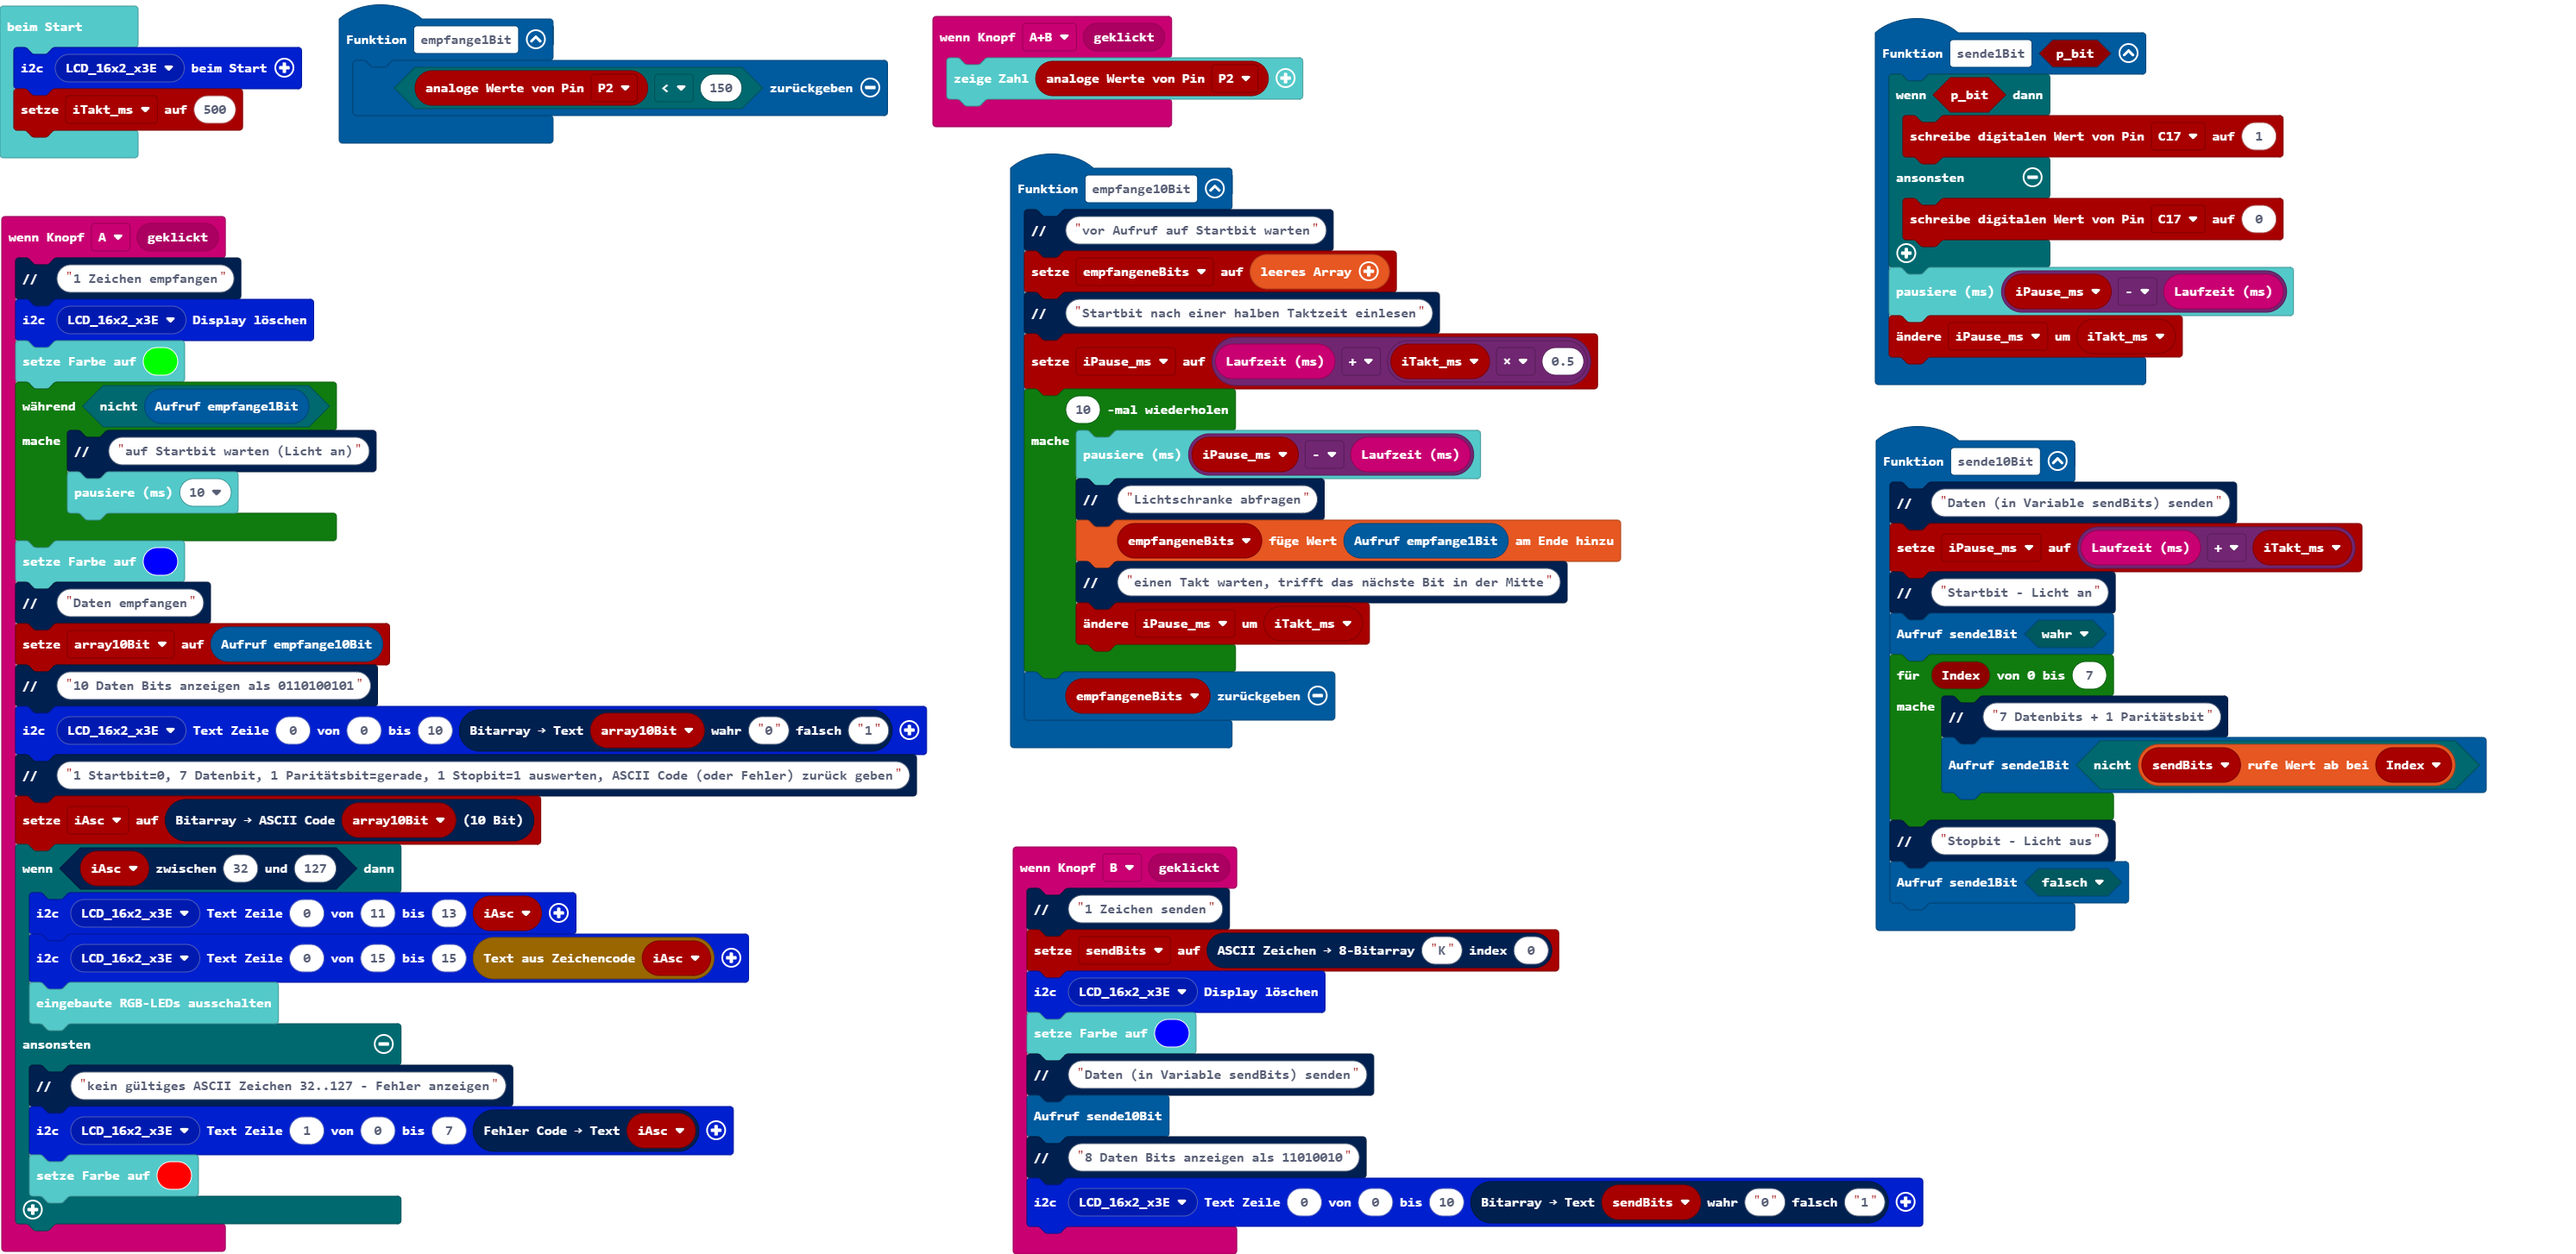
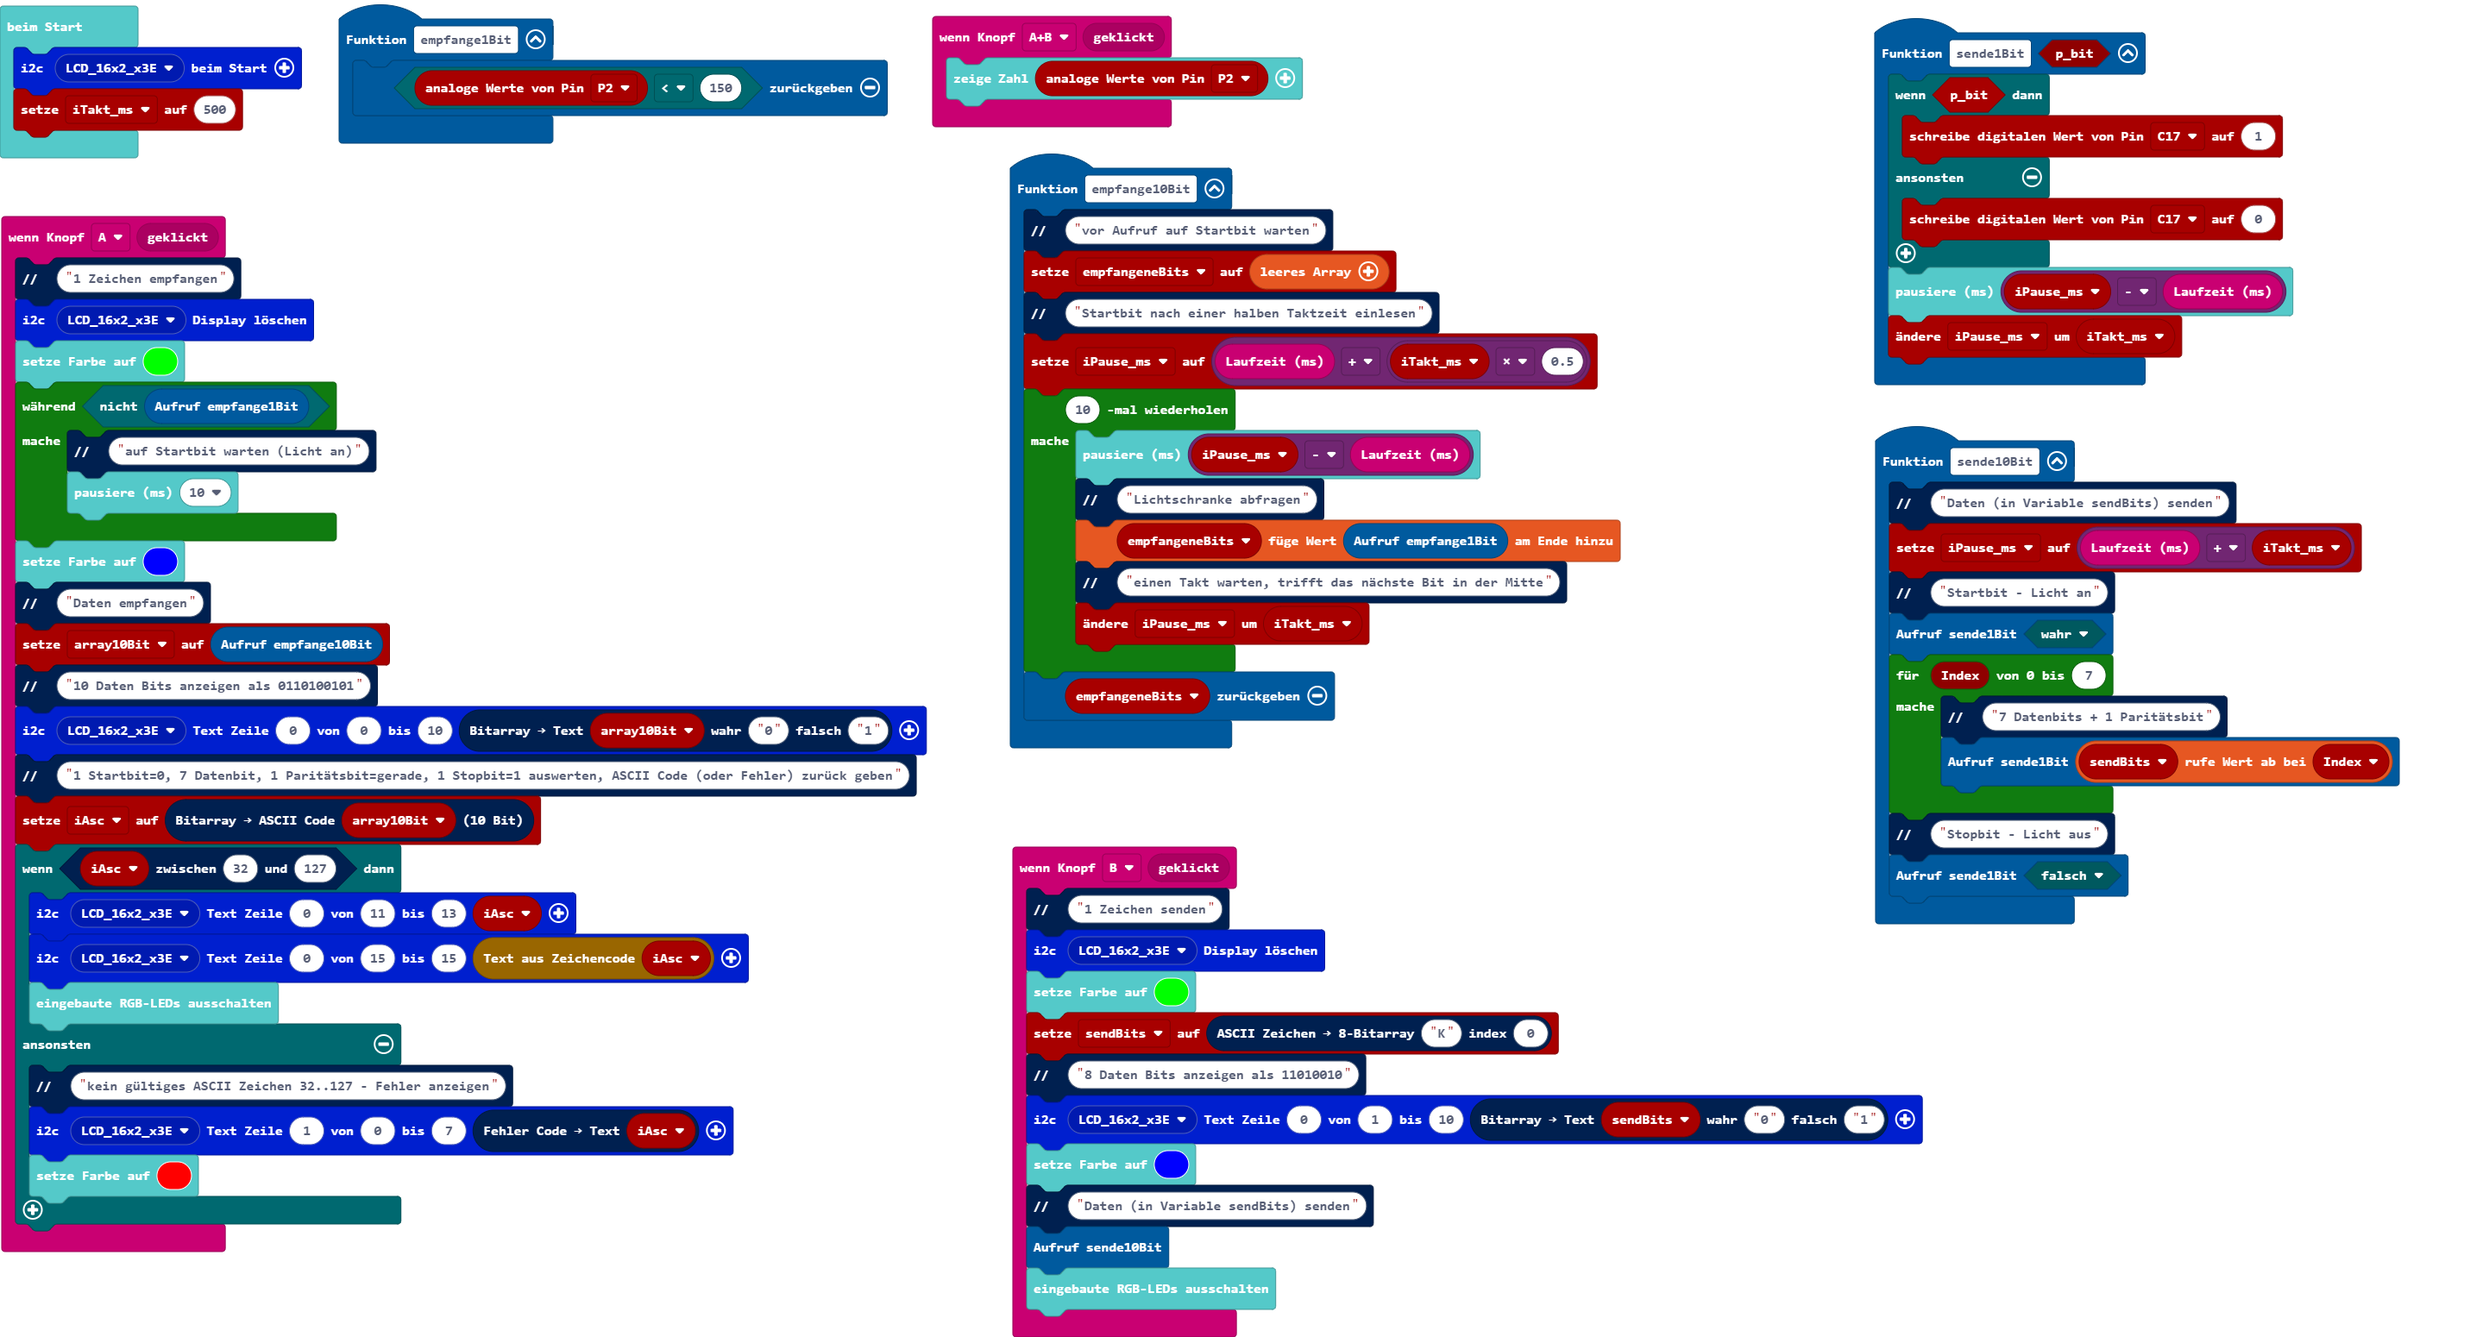
Aktualisiere main.blocks, main.ts, rs232.ts

diff --git a/main.ts b/main.ts
@@ -19,7 +19,7 @@ function sende10Bit () {
     sende1Bit(true)
     for (let Index = 0; Index <= 7; Index++) {
         rs232.comment("7 Datenbits + 1 Paritätsbit")
-        sende1Bit(!(sendBits[Index]))
+        sende1Bit(sendBits[Index])
     }
     rs232.comment("Stopbit - Licht aus")
     sende1Bit(false)
@@ -63,13 +63,15 @@ input.onButtonEvent(Button.AB, input.buttonEventClick(), function () {
 })
 input.onButtonEvent(Button.B, input.buttonEventClick(), function () {
     rs232.comment("1 Zeichen senden")
-    sendBits = rs232.chrToBin("K", 0)
     lcd16x2rgb.clearScreen(lcd16x2rgb.lcd16x2_eADDR(lcd16x2rgb.eADDR_LCD.LCD_16x2_x3E))
+    basic.setLedColor(0x00ff00)
+    sendBits = rs232.chrToBin("K", 0)
+    rs232.comment("8 Daten Bits anzeigen als 11010010")
+    lcd16x2rgb.writeText(lcd16x2rgb.lcd16x2_eADDR(lcd16x2rgb.eADDR_LCD.LCD_16x2_x3E), 0, 1, 10, rs232.bin_toString(sendBits, "0", "1"))
     basic.setLedColor(0x0000ff)
     rs232.comment("Daten (in Variable sendBits) senden")
     sende10Bit()
-    rs232.comment("8 Daten Bits anzeigen als 11010010")
-    lcd16x2rgb.writeText(lcd16x2rgb.lcd16x2_eADDR(lcd16x2rgb.eADDR_LCD.LCD_16x2_x3E), 0, 0, 10, rs232.bin_toString(sendBits, "0", "1"))
+    basic.turnRgbLedOff()
 })
 function empfange1Bit () {
     return pins.analogReadPin(AnalogPin.P2) < 150

diff --git a/rs232.ts b/rs232.ts
@@ -21,13 +21,13 @@ namespace rs232
     //% block="ASCII Code → 8-Bitarray %ascByte" weight=4
     export function ascToBin(ascByte: number) {
         let iParity = 0, bBit: boolean
-        let bitArray: boolean[]
+        let bitArray: boolean[] = []
         for (let index = 0; index < 7; index++) {
-            bBit = ascByte % 2 != 0 // ungerade Zahl - Bit=true
+            bBit = ascByte % 2 == 0 // gerade Zahl==0 - Bit=true (negative Logik)
             bitArray.push(bBit) // [0]..[6] 7 Bit
             if (bBit)
                 iParity++
-            ascByte >> 1 // um 1 Bit nach rechts schieben
+            ascByte = ascByte >> 1 // um 1 Bit nach rechts schieben
         }
         bitArray.push(iParity % 2 != 0) // [7] das 8. Bit Parity
         return bitArray
